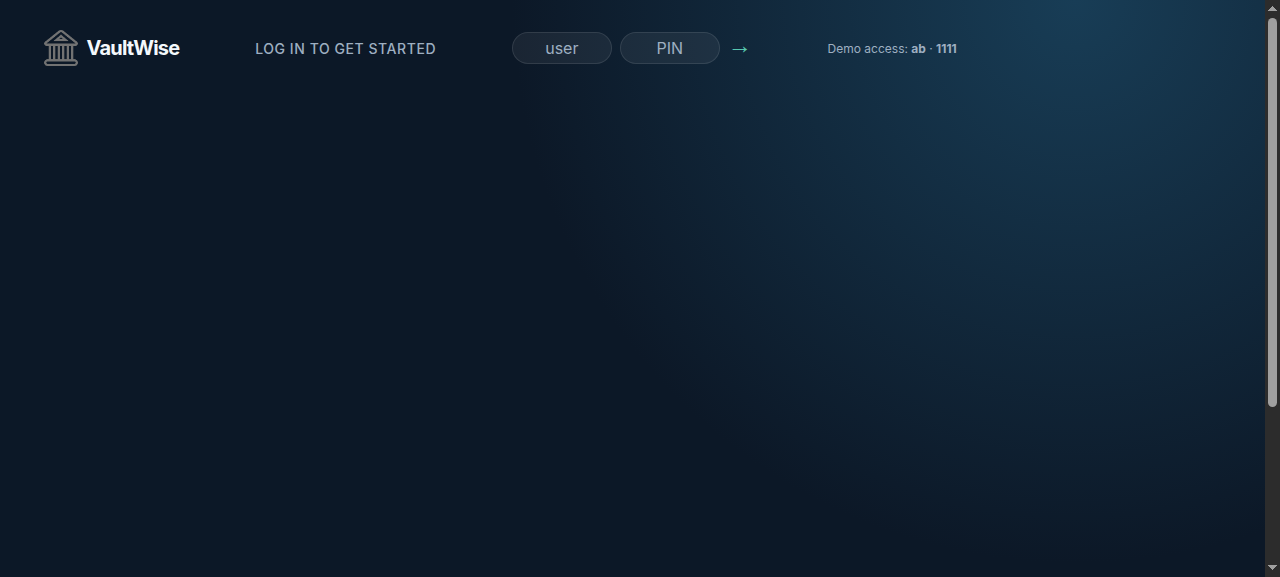
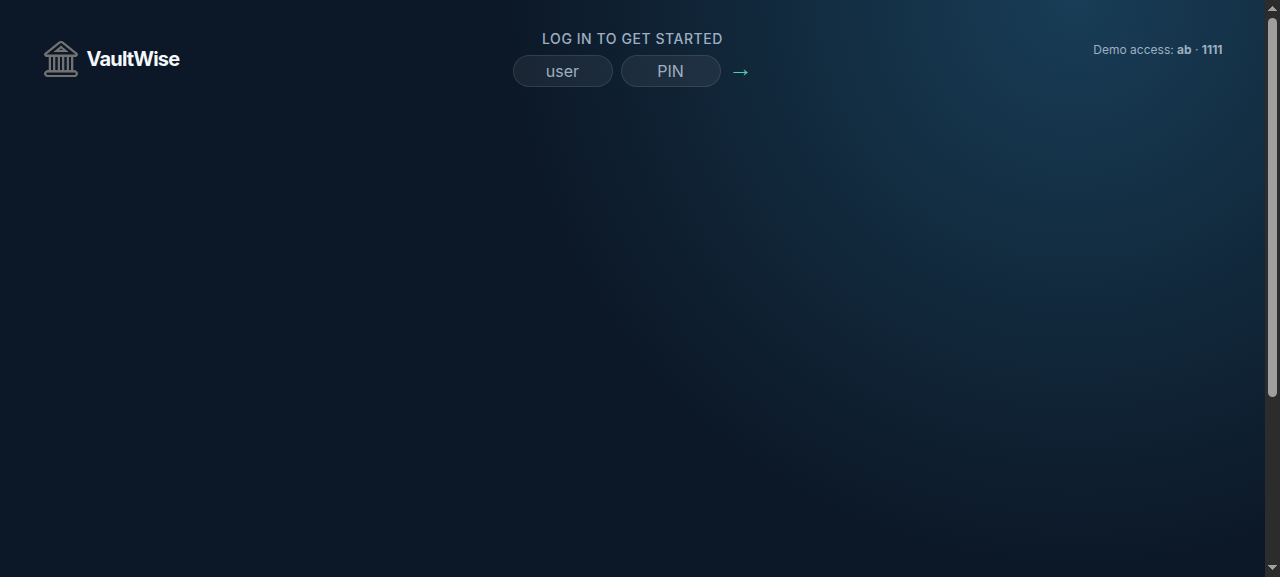
Center account login header

diff --git a/Managing_Account_Part/index.html b/Managing_Account_Part/index.html
@@ -20,29 +20,33 @@
         <img src="logo.png" alt="" class="logo" />
         <span>VaultWise</span>
       </a>
-      <p class="welcome">Log in to get started</p>
-      <form class="login">
-        <input
-          type="text"
-          placeholder="user"
-          class="login__input login__input--user"
-          aria-label="Username"
-          autocomplete="username"
-        />
-        <input
-          type="password"
-          placeholder="PIN"
-          maxlength="4"
-          class="login__input login__input--pin"
-          aria-label="PIN"
-          autocomplete="current-password"
-        />
-        <button class="login__btn" type="submit" aria-label="Log in">
-          &rarr;
-        </button>
-      </form>
-      <p class="login__hint">Demo access: <strong>ab</strong> · <strong>1111</strong></p>
-      <p class="login__feedback" aria-live="polite"></p>
+      <div class="account-nav__center">
+        <p class="welcome">Log in to get started</p>
+        <form class="login">
+          <input
+            type="text"
+            placeholder="user"
+            class="login__input login__input--user"
+            aria-label="Username"
+            autocomplete="username"
+          />
+          <input
+            type="password"
+            placeholder="PIN"
+            maxlength="4"
+            class="login__input login__input--pin"
+            aria-label="PIN"
+            autocomplete="current-password"
+          />
+          <button class="login__btn" type="submit" aria-label="Log in">
+            &rarr;
+          </button>
+        </form>
+      </div>
+      <div class="account-nav__meta">
+        <p class="login__hint">Demo access: <strong>ab</strong> · <strong>1111</strong></p>
+        <p class="login__feedback" aria-live="polite"></p>
+      </div>
     </nav>
 
     <main class="app">

diff --git a/Managing_Account_Part/style.css b/Managing_Account_Part/style.css
@@ -318,6 +318,10 @@ nav {
   max-width: 118rem;
   margin: 0 auto;
   padding: 1.5rem 0 2.5rem;
+  display: grid;
+  grid-template-columns: minmax(18rem, 1fr) auto minmax(18rem, 1fr);
+  align-items: center;
+  gap: 2rem;
 }
 
 .account-brand {
@@ -345,6 +349,19 @@ nav {
   font-weight: 500;
   letter-spacing: 0.04em;
   text-transform: uppercase;
+  text-align: center;
+}
+
+.account-nav__center {
+  display: grid;
+  justify-items: center;
+  gap: 0.8rem;
+}
+
+.account-nav__meta {
+  justify-self: end;
+  min-width: 18rem;
+  text-align: right;
 }
 
 .login {
@@ -362,7 +379,7 @@ nav {
 }
 
 .login__feedback {
-  min-width: 19rem;
+  min-height: 1.8rem;
   color: #f07b8b;
 }
 
@@ -541,19 +558,25 @@ h2 {
   }
 
   nav {
-    flex-wrap: wrap;
+    grid-template-columns: 1fr auto;
     gap: 1.5rem;
   }
 
   .welcome {
-    order: 3;
+    font-size: 1.2rem;
+  }
+
+  .account-nav__center {
+    grid-column: 1 / -1;
+    grid-row: 2;
     width: 100%;
   }
 
-  .login__hint,
-  .login__feedback {
-    order: 4;
+  .account-nav__meta {
+    grid-column: 1 / -1;
+    grid-row: 3;
     width: 100%;
+    text-align: center;
   }
 
   .app {
